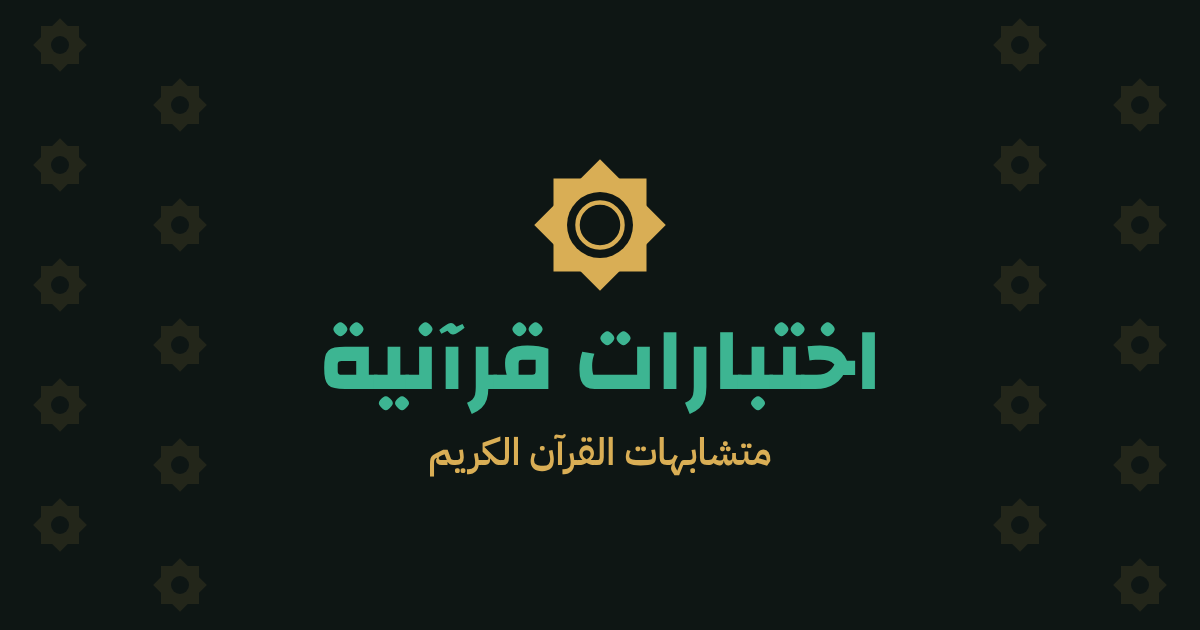
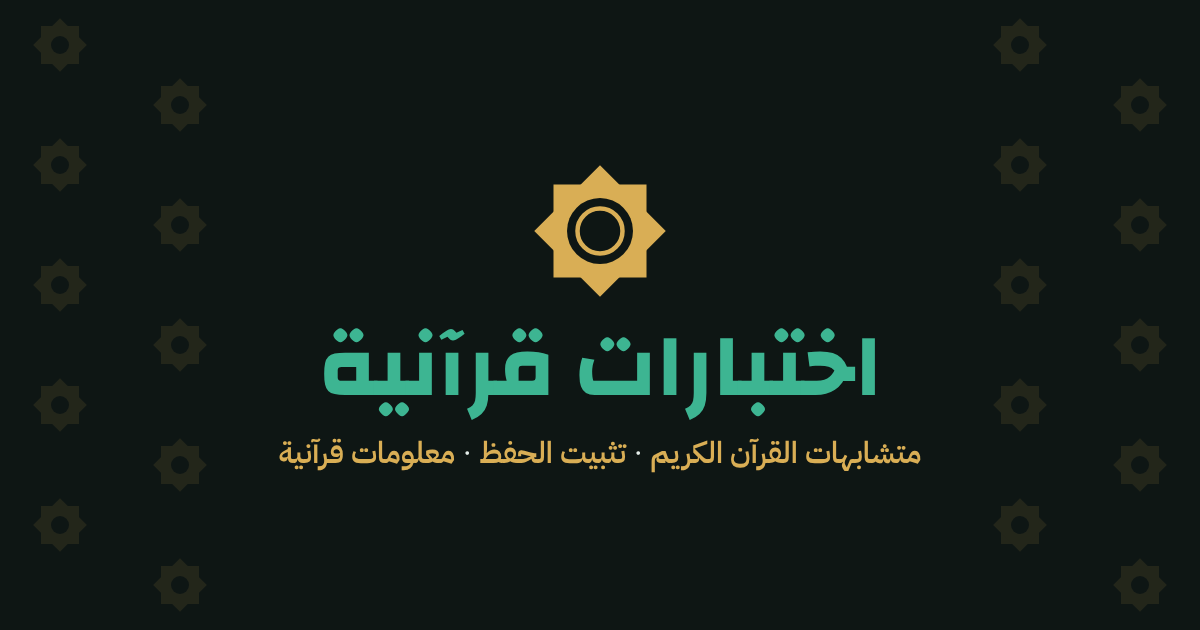
Add files via upload

diff --git a/index.html b/index.html
@@ -3,17 +3,17 @@
 <head>
 <meta charset="utf-8">
 <meta name="viewport" content="width=device-width, initial-scale=1, viewport-fit=cover">
-<meta name="description" content="اختبارات قرآنية: اختبارات يومية في متشابهات القرآن الكريم: أين ورد؟ وميّز بينهما. وتدرّب على الأجزاء التي تحفظها.">
+<meta name="description" content="اختبارات قرآنية: اختبارات يومية لحافظي القرآن في متشابهات القرآن الكريم وتثبيت الحفظ ومعلومات قرآنية، مع التدريب على الأجزاء التي تحفظها.">
 <meta property="og:type" content="website">
 <meta property="og:url" content="https://quranic-verses.github.io/mutashabihat/">
 <meta property="og:title" content="اختبارات قرآنية">
-<meta property="og:description" content="اختبارات يومية لحفّاظ القرآن: أين ورد؟ · ميّز بينهما">
-<meta property="og:image" content="https://quranic-verses.github.io/mutashabihat/og-image.png?v=4">
+<meta property="og:description" content="اختبارات يومية لحافظي القرآن: متشابهات القرآن الكريم · تثبيت الحفظ · معلومات قرآنية">
+<meta property="og:image" content="https://quranic-verses.github.io/mutashabihat/og-image.png?v=5">
 <meta property="og:image:width" content="1200">
 <meta property="og:image:height" content="630">
 <meta property="og:locale" content="ar_AR">
 <meta name="twitter:card" content="summary_large_image">
-<meta name="twitter:image" content="https://quranic-verses.github.io/mutashabihat/og-image.png?v=4">
+<meta name="twitter:image" content="https://quranic-verses.github.io/mutashabihat/og-image.png?v=5">
 <link rel="manifest" href="manifest.webmanifest">
 <link rel="apple-touch-icon" href="apple-touch-icon.png">
 <meta name="apple-mobile-web-app-capable" content="yes">

diff --git a/tartib.html b/tartib.html
@@ -3,17 +3,17 @@
 <head>
 <meta charset="utf-8">
 <meta name="viewport" content="width=device-width, initial-scale=1, viewport-fit=cover">
-<meta name="description" content="ترتيب السور: ما السورة التي قبل السورة أو بعدها في المصحف؟ اختبار جديد كل يوم.">
+<meta name="description" content="ترتيب السور: ما السورة التي قبلها والتي بعدها في المصحف؟ اختبار جديد كل يوم.">
 <meta property="og:type" content="website">
 <meta property="og:url" content="https://quranic-verses.github.io/mutashabihat/tartib.html">
 <meta property="og:title" content="ترتيب السور · اختبارات قرآنية">
-<meta property="og:description" content="ترتيب السور: ما السورة التي قبل السورة أو بعدها في المصحف؟ اختبار جديد كل يوم.">
-<meta property="og:image" content="https://quranic-verses.github.io/mutashabihat/og-image.png?v=4">
+<meta property="og:description" content="ترتيب السور: ما السورة التي قبلها والتي بعدها في المصحف؟ اختبار جديد كل يوم.">
+<meta property="og:image" content="https://quranic-verses.github.io/mutashabihat/og-image.png?v=5">
 <meta property="og:image:width" content="1200">
 <meta property="og:image:height" content="630">
 <meta property="og:locale" content="ar_AR">
 <meta name="twitter:card" content="summary_large_image">
-<meta name="twitter:image" content="https://quranic-verses.github.io/mutashabihat/og-image.png?v=4">
+<meta name="twitter:image" content="https://quranic-verses.github.io/mutashabihat/og-image.png?v=5">
 <link rel="manifest" href="manifest.webmanifest">
 <link rel="apple-touch-icon" href="apple-touch-icon.png">
 <meta name="apple-mobile-web-app-capable" content="yes">

diff --git a/asmaa.html b/asmaa.html
@@ -3,17 +3,17 @@
 <head>
 <meta charset="utf-8">
 <meta name="viewport" content="width=device-width, initial-scale=1, viewport-fit=cover">
-<meta name="description" content="أسماء السور: لبعض السور أسماء أخرى، فاعرف السورة من اسمها الآخر. اختبار جديد كل يوم.">
+<meta name="description" content="أسماء السور: ما السورة التي تُعرف بهذا الاسم؟ سؤال جديد كل يوم.">
 <meta property="og:type" content="website">
 <meta property="og:url" content="https://quranic-verses.github.io/mutashabihat/asmaa.html">
 <meta property="og:title" content="أسماء السور · اختبارات قرآنية">
-<meta property="og:description" content="أسماء السور: لبعض السور أسماء أخرى، فاعرف السورة من اسمها الآخر. اختبار جديد كل يوم.">
-<meta property="og:image" content="https://quranic-verses.github.io/mutashabihat/og-image.png?v=4">
+<meta property="og:description" content="أسماء السور: ما السورة التي تُعرف بهذا الاسم؟ سؤال جديد كل يوم.">
+<meta property="og:image" content="https://quranic-verses.github.io/mutashabihat/og-image.png?v=5">
 <meta property="og:image:width" content="1200">
 <meta property="og:image:height" content="630">
 <meta property="og:locale" content="ar_AR">
 <meta name="twitter:card" content="summary_large_image">
-<meta name="twitter:image" content="https://quranic-verses.github.io/mutashabihat/og-image.png?v=4">
+<meta name="twitter:image" content="https://quranic-verses.github.io/mutashabihat/og-image.png?v=5">
 <link rel="manifest" href="manifest.webmanifest">
 <link rel="apple-touch-icon" href="apple-touch-icon.png">
 <meta name="apple-mobile-web-app-capable" content="yes">

diff --git a/lam.html b/lam.html
@@ -3,17 +3,17 @@
 <head>
 <meta charset="utf-8">
 <meta name="viewport" content="width=device-width, initial-scale=1, viewport-fit=cover">
-<meta name="description" content="لم تتكرر: ثلاث كلمات من القرآن، واحدة منها فقط وردت مرة واحدة. اختبار جديد كل يوم.">
+<meta name="description" content="لم تتكرر: أي هذه الكلمات وردت في القرآن مرة واحدة؟ سؤال جديد كل يوم.">
 <meta property="og:type" content="website">
 <meta property="og:url" content="https://quranic-verses.github.io/mutashabihat/lam.html">
 <meta property="og:title" content="لم تتكرر · اختبارات قرآنية">
-<meta property="og:description" content="لم تتكرر: ثلاث كلمات من القرآن، واحدة منها فقط وردت مرة واحدة. اختبار جديد كل يوم.">
-<meta property="og:image" content="https://quranic-verses.github.io/mutashabihat/og-image.png?v=4">
+<meta property="og:description" content="لم تتكرر: أي هذه الكلمات وردت في القرآن مرة واحدة؟ سؤال جديد كل يوم.">
+<meta property="og:image" content="https://quranic-verses.github.io/mutashabihat/og-image.png?v=5">
 <meta property="og:image:width" content="1200">
 <meta property="og:image:height" content="630">
 <meta property="og:locale" content="ar_AR">
 <meta name="twitter:card" content="summary_large_image">
-<meta name="twitter:image" content="https://quranic-verses.github.io/mutashabihat/og-image.png?v=4">
+<meta name="twitter:image" content="https://quranic-verses.github.io/mutashabihat/og-image.png?v=5">
 <link rel="manifest" href="manifest.webmanifest">
 <link rel="apple-touch-icon" href="apple-touch-icon.png">
 <meta name="apple-mobile-web-app-capable" content="yes">

diff --git a/fawatih.html b/fawatih.html
@@ -3,17 +3,17 @@
 <head>
 <meta charset="utf-8">
 <meta name="viewport" content="width=device-width, initial-scale=1, viewport-fit=cover">
-<meta name="description" content="فواتح السور: أول كلمات من سورة، فما هذه السورة؟ اختبار جديد كل يوم.">
+<meta name="description" content="فواتح السور: ما السورة التي تبدأ بهذه الكلمات؟ سؤال جديد كل يوم.">
 <meta property="og:type" content="website">
 <meta property="og:url" content="https://quranic-verses.github.io/mutashabihat/fawatih.html">
 <meta property="og:title" content="فواتح السور · اختبارات قرآنية">
-<meta property="og:description" content="فواتح السور: أول كلمات من سورة، فما هذه السورة؟ اختبار جديد كل يوم.">
-<meta property="og:image" content="https://quranic-verses.github.io/mutashabihat/og-image.png?v=4">
+<meta property="og:description" content="فواتح السور: ما السورة التي تبدأ بهذه الكلمات؟ سؤال جديد كل يوم.">
+<meta property="og:image" content="https://quranic-verses.github.io/mutashabihat/og-image.png?v=5">
 <meta property="og:image:width" content="1200">
 <meta property="og:image:height" content="630">
 <meta property="og:locale" content="ar_AR">
 <meta name="twitter:card" content="summary_large_image">
-<meta name="twitter:image" content="https://quranic-verses.github.io/mutashabihat/og-image.png?v=4">
+<meta name="twitter:image" content="https://quranic-verses.github.io/mutashabihat/og-image.png?v=5">
 <link rel="manifest" href="manifest.webmanifest">
 <link rel="apple-touch-icon" href="apple-touch-icon.png">
 <meta name="apple-mobile-web-app-capable" content="yes">

diff --git a/makki.html b/makki.html
@@ -3,17 +3,17 @@
 <head>
 <meta charset="utf-8">
 <meta name="viewport" content="width=device-width, initial-scale=1, viewport-fit=cover">
-<meta name="description" content="مكية أم مدنية؟ خمس سور كل يوم، فاعرف المكية منها والمدنية.">
+<meta name="description" content="مكية أم مدنية؟ سورة جديدة كل يوم، فهل هي مكية أم مدنية؟">
 <meta property="og:type" content="website">
 <meta property="og:url" content="https://quranic-verses.github.io/mutashabihat/makki.html">
 <meta property="og:title" content="مكية أم مدنية؟ · اختبارات قرآنية">
-<meta property="og:description" content="مكية أم مدنية؟ خمس سور كل يوم، فاعرف المكية منها والمدنية.">
-<meta property="og:image" content="https://quranic-verses.github.io/mutashabihat/og-image.png?v=4">
+<meta property="og:description" content="مكية أم مدنية؟ سورة جديدة كل يوم، فهل هي مكية أم مدنية؟">
+<meta property="og:image" content="https://quranic-verses.github.io/mutashabihat/og-image.png?v=5">
 <meta property="og:image:width" content="1200">
 <meta property="og:image:height" content="630">
 <meta property="og:locale" content="ar_AR">
 <meta name="twitter:card" content="summary_large_image">
-<meta name="twitter:image" content="https://quranic-verses.github.io/mutashabihat/og-image.png?v=4">
+<meta name="twitter:image" content="https://quranic-verses.github.io/mutashabihat/og-image.png?v=5">
 <link rel="manifest" href="manifest.webmanifest">
 <link rel="apple-touch-icon" href="apple-touch-icon.png">
 <meta name="apple-mobile-web-app-capable" content="yes">

diff --git a/qabl.html b/qabl.html
@@ -8,12 +8,12 @@
 <meta property="og:url" content="https://quranic-verses.github.io/mutashabihat/qabl.html">
 <meta property="og:title" content="ما قبلها؟ ما بعدها؟ · اختبارات قرآنية">
 <meta property="og:description" content="ما قبلها؟ ما بعدها؟ آية واحدة، فاختر الآية التي قبلها ثم الآية التي بعدها. اختبار جديد كل يوم لتثبيت حفظ القرآن.">
-<meta property="og:image" content="https://quranic-verses.github.io/mutashabihat/og-image.png?v=4">
+<meta property="og:image" content="https://quranic-verses.github.io/mutashabihat/og-image.png?v=5">
 <meta property="og:image:width" content="1200">
 <meta property="og:image:height" content="630">
 <meta property="og:locale" content="ar_AR">
 <meta name="twitter:card" content="summary_large_image">
-<meta name="twitter:image" content="https://quranic-verses.github.io/mutashabihat/og-image.png?v=4">
+<meta name="twitter:image" content="https://quranic-verses.github.io/mutashabihat/og-image.png?v=5">
 <link rel="manifest" href="manifest.webmanifest">
 <link rel="apple-touch-icon" href="apple-touch-icon.png">
 <meta name="apple-mobile-web-app-capable" content="yes">

diff --git a/rattib.html b/rattib.html
@@ -8,12 +8,12 @@
 <meta property="og:url" content="https://quranic-verses.github.io/mutashabihat/rattib.html">
 <meta property="og:title" content="رتّب الآيات · اختبارات قرآنية">
 <meta property="og:description" content="رتّب الآيات: خمس آيات متتالية مبعثرة، فرتّبها كما في المصحف. اختبار جديد كل يوم لتثبيت حفظ القرآن.">
-<meta property="og:image" content="https://quranic-verses.github.io/mutashabihat/og-image.png?v=4">
+<meta property="og:image" content="https://quranic-verses.github.io/mutashabihat/og-image.png?v=5">
 <meta property="og:image:width" content="1200">
 <meta property="og:image:height" content="630">
 <meta property="og:locale" content="ar_AR">
 <meta name="twitter:card" content="summary_large_image">
-<meta name="twitter:image" content="https://quranic-verses.github.io/mutashabihat/og-image.png?v=4">
+<meta name="twitter:image" content="https://quranic-verses.github.io/mutashabihat/og-image.png?v=5">
 <link rel="manifest" href="manifest.webmanifest">
 <link rel="apple-touch-icon" href="apple-touch-icon.png">
 <meta name="apple-mobile-web-app-capable" content="yes">

diff --git a/akhir.html b/akhir.html
@@ -8,12 +8,12 @@
 <meta property="og:url" content="https://quranic-verses.github.io/mutashabihat/akhir.html">
 <meta property="og:title" content="آخر الآية · اختبارات قرآنية">
 <meta property="og:description" content="آخر الآية: آية حُذفت كلماتها الثلاث الأخيرة، فاكتبها. اختبار جديد كل يوم لتثبيت حفظ القرآن.">
-<meta property="og:image" content="https://quranic-verses.github.io/mutashabihat/og-image.png?v=4">
+<meta property="og:image" content="https://quranic-verses.github.io/mutashabihat/og-image.png?v=5">
 <meta property="og:image:width" content="1200">
 <meta property="og:image:height" content="630">
 <meta property="og:locale" content="ar_AR">
 <meta name="twitter:card" content="summary_large_image">
-<meta name="twitter:image" content="https://quranic-verses.github.io/mutashabihat/og-image.png?v=4">
+<meta name="twitter:image" content="https://quranic-verses.github.io/mutashabihat/og-image.png?v=5">
 <link rel="manifest" href="manifest.webmanifest">
 <link rel="apple-touch-icon" href="apple-touch-icon.png">
 <meta name="apple-mobile-web-app-capable" content="yes">

diff --git a/farq.html b/farq.html
@@ -8,12 +8,12 @@
 <meta property="og:url" content="https://quranic-verses.github.io/mutashabihat/farq.html">
 <meta property="og:title" content="ميّز بينهما · اختبارات قرآنية">
 <meta property="og:description" content="موضعان متشابهان من القرآن، فاعرف سورة كل منهما. اختبار جديد كل يوم.">
-<meta property="og:image" content="https://quranic-verses.github.io/mutashabihat/og-image.png?v=4">
+<meta property="og:image" content="https://quranic-verses.github.io/mutashabihat/og-image.png?v=5">
 <meta property="og:image:width" content="1200">
 <meta property="og:image:height" content="630">
 <meta property="og:locale" content="ar_AR">
 <meta name="twitter:card" content="summary_large_image">
-<meta name="twitter:image" content="https://quranic-verses.github.io/mutashabihat/og-image.png?v=4">
+<meta name="twitter:image" content="https://quranic-verses.github.io/mutashabihat/og-image.png?v=5">
 <link rel="manifest" href="manifest.webmanifest">
 <link rel="apple-touch-icon" href="apple-touch-icon.png">
 <meta name="apple-mobile-web-app-capable" content="yes">

diff --git a/sw.js b/sw.js
@@ -1,7 +1,7 @@
 // اختبارات قرآنية — offline support.
 // Pages: always checked with GitHub first (so updates show up right away), cached copy when offline.
 // Fonts: cached after the first visit. Recitation audio is never cached.
-const CACHE = 'mutashabih-v55';
+const CACHE = 'mutashabih-v56';
 const CORE = ['./', './index.html', './farq.html', './akhir.html', './qabl.html', './rattib.html', './lam.html', './makki.html', './fawatih.html', './tartib.html', './asmaa.html', './manifest.webmanifest', './icon-192.png', './icon-512.png'];
 
 self.addEventListener('install', e => {
